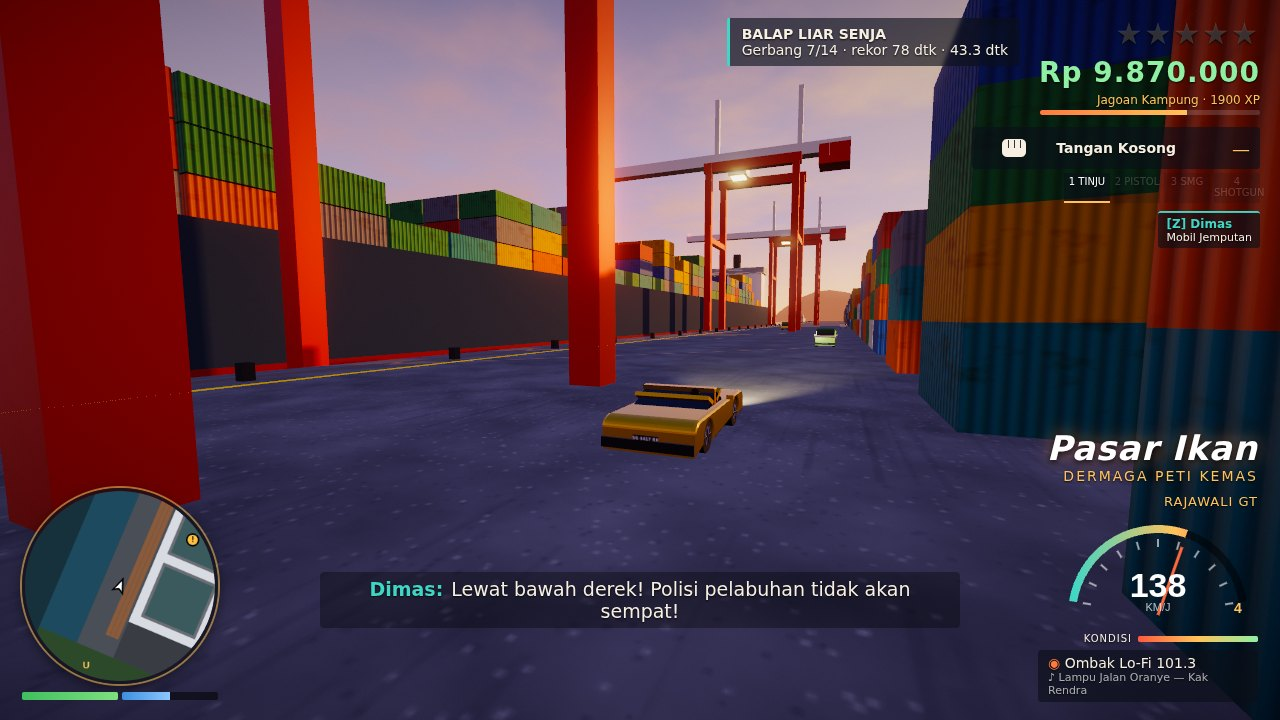
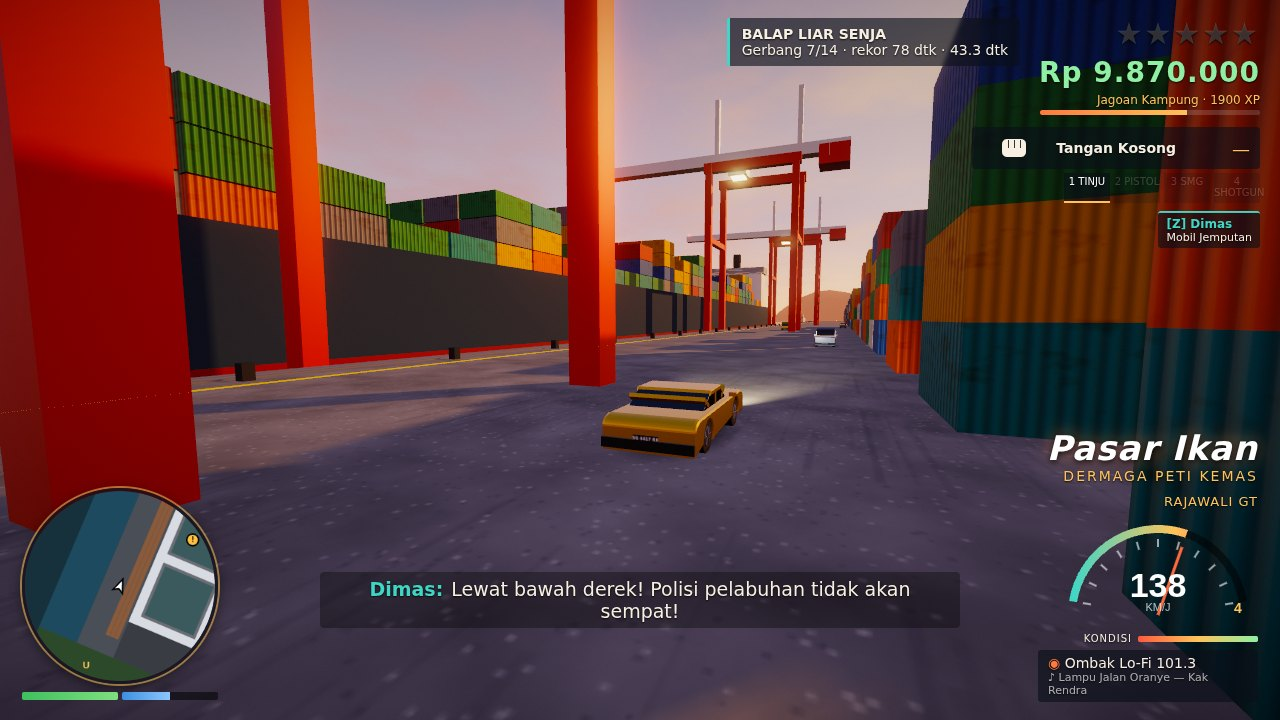
Warmer, sunnier golden-hour grade

diff --git a/game/src/render/dusk-lighting.js b/game/src/render/dusk-lighting.js
@@ -2,12 +2,12 @@
 // a sky/ground hemisphere fill and distance fog that melts the city into the haze.
 import * as THREE from 'three';
 
-export const SUN_DIRECTION = new THREE.Vector3(-0.62, 0.2, 0.76).normalize();
+export const SUN_DIRECTION = new THREE.Vector3(-0.62, 0.34, 0.72).normalize();
 
 export class DuskLighting {
   constructor(scene, { shadowSize = 2048, shadows = true } = {}) {
     this.scene = scene;
-    this.sun = new THREE.DirectionalLight(0xffb070, 3.4);
+    this.sun = new THREE.DirectionalLight(0xffb878, 3.9);
     this.sun.castShadow = shadows;
     this.sun.shadow.mapSize.set(shadowSize, shadowSize);
     const cam = this.sun.shadow.camera;
@@ -19,9 +19,9 @@ export class DuskLighting {
     scene.add(this.sun);
     scene.add(this.sun.target);
 
-    this.hemi = new THREE.HemisphereLight(0x8fa0d8, 0x4a3025, 1.05);
+    this.hemi = new THREE.HemisphereLight(0xb0a8c4, 0x5a3a28, 1.1);
     scene.add(this.hemi);
-    this.fill = new THREE.DirectionalLight(0x6f7fd0, 0.35); // cool bounce from the east sky
+    this.fill = new THREE.DirectionalLight(0x8a8ad0, 0.3); // cool bounce from the east sky
     this.fill.position.set(300, 200, -200);
     scene.add(this.fill);
 

diff --git a/game/src/render/post-process-pipeline.js b/game/src/render/post-process-pipeline.js
@@ -121,7 +121,7 @@ export class PostProcessPipeline {
     this.compositeMat = mat(COMPOSITE_FRAG, {
       tScene: { value: null }, tBloom: { value: null }, bloomStrength: { value: this.bloomStrength },
       exposure: { value: 1.12 }, vignette: { value: 1.25 }, time: { value: 0 }, saturation: { value: 1.12 },
-      shadowTint: { value: new THREE.Vector3(0.82, 0.9, 1.25) }, damageVignette: { value: 0 },
+      shadowTint: { value: new THREE.Vector3(0.92, 0.94, 1.1) }, damageVignette: { value: 0 },
     });
     this.sceneTarget = null;
     this.mips = [];

diff --git a/game/src/render/sky-dome.js b/game/src/render/sky-dome.js
@@ -57,8 +57,8 @@ export function createSkyDome(sunDirection) {
     toneMapped: false,
     uniforms: {
       sunDir: { value: sunDirection.clone().normalize() },
-      zenith: { value: new THREE.Color(0.09, 0.13, 0.32) },
-      midSky: { value: new THREE.Color(0.55, 0.42, 0.62) },
+      zenith: { value: new THREE.Color(0.14, 0.2, 0.42) },
+      midSky: { value: new THREE.Color(0.68, 0.5, 0.58) },
       horizon: { value: new THREE.Color(1.45, 0.7, 0.38) },
       sunColor: { value: new THREE.Color(1.6, 0.85, 0.42) },
       time: { value: 0 },
